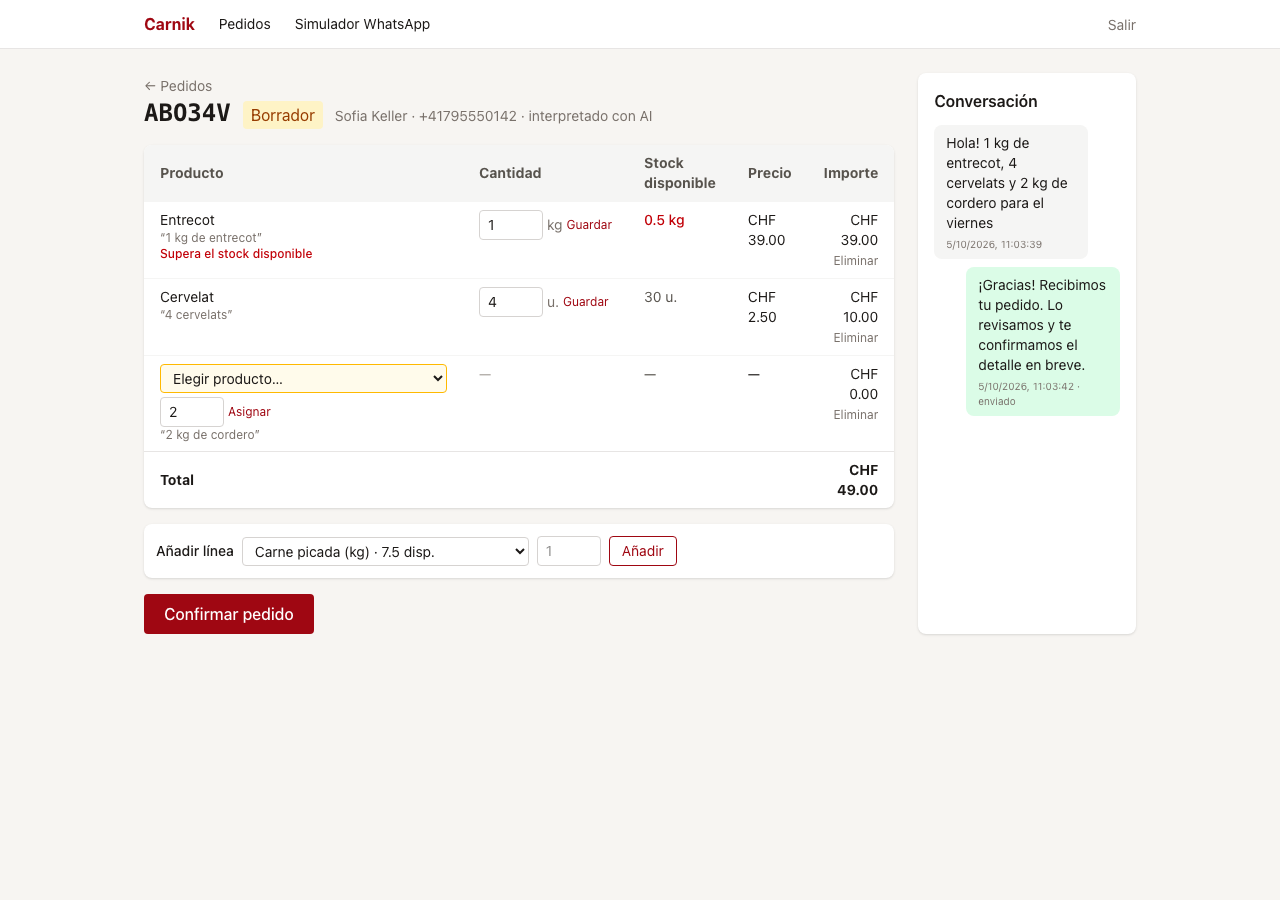
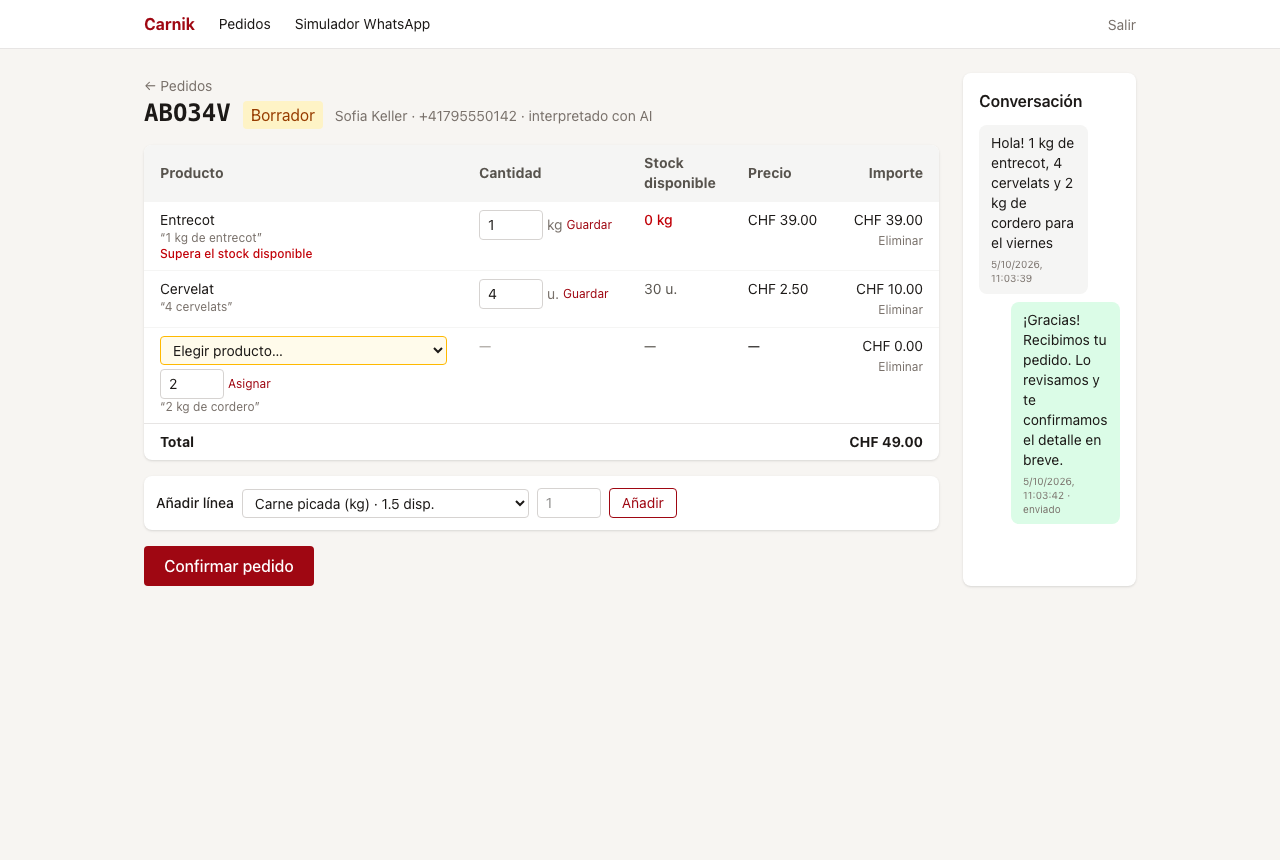
docs(readme): WhatsApp vía Twilio, ajuste de líneas, stock disponible y estado de PRs

diff --git a/readme.md b/readme.md
@@ -14,14 +14,14 @@ Pedidos por WhatsApp para carnicerías, redactados por AI y confirmados por una 
 | **Repositorio** | https://github.com/fedewagner/SRS-Carnik |
 | **URL de la demo** | https://srs-carnik-production.up.railway.app · las credenciales de prueba se entregan por el formulario, no en el repositorio público |
 | **Stack** | Next.js 15 (App Router) · Prisma 6 · PostgreSQL 16 · Claude API · Railway |
-| **Alcance** | 17 tareas del piso replanificado, de 28 especificadas · ver la tabla de abajo |
-| **Estado** | Flujo E2E desplegado y funcionando. 26 tests en verde en CI |
+| **Alcance** | Piso de 17 tareas más dos incrementos: WhatsApp real vía Twilio y ajuste de líneas · ver la tabla de abajo |
+| **Estado** | Flujo E2E desplegado y funcionando por WhatsApp real. 53 tests y un E2E en verde en CI |
 
 El documento combina dos capas. **§1.3, §1.4, §2.4, §2.6 y §7 describen lo implementado y verificado**; el resto es el diseño de la Entrega 1, derivado de `openspec/changes/bootstrap-carnik/`, que sigue siendo válido para lo que está fuera de esta entrega.
 
 ### Alcance entregado frente a especificado
 
-La entrega se adelantó a dos días de trabajo sin código escrito. El plan de 28 tareas (~20 h) no entraba, así que se replanificó a un **piso de 17 tareas (~10 h)** ejecutando el orden de caída pre-comprometido del `proposal.md` hasta el escalón 3. Lo que no está es una decisión registrada en `tasks.md`, no una omisión.
+La entrega se adelantó a dos días de trabajo sin código escrito. El plan de 28 tareas (~20 h) no entraba, así que se replanificó a un **piso de 17 tareas (~10 h)** ejecutando el orden de caída pre-comprometido del `proposal.md` hasta el escalón 3. Lo que no está es una decisión registrada en `tasks.md`, no una omisión. Con el piso desplegado, se sumaron dos incrementos, cada uno como change propio de `openspec/`: el canal de WhatsApp real (`add-whatsapp-twilio-channel`) y el ajuste de líneas (`add-order-line-adjustment`).
 
 | Historia | Qué es | Estado |
 |---|---|:-:|
@@ -32,10 +32,11 @@ La entrega se adelantó a dos días de trabajo sin código escrito. El plan de 2
 | `US-05` | Valoración en servidor contra catálogo y existencias | ✅ |
 | `US-07` | Listado y detalle con la conversación | ✅ · sin badge con polling |
 | `US-10` | Confirmación transaccional que descuenta existencias | ✅ |
-| `US-11` | Resumen al cliente tras confirmar | ✅ · registrado en la conversación con transporte `log`; sin acuse automático |
-| `US-01` | Webhook real de Meta Cloud API | ⏭ escalón 3 del orden de caída: el canal es el simulador |
-| `US-03` | Límite de mensajes por remitente | ⏭ sólo protege el webhook público, que no existe en esta entrega |
-| `US-08` · `US-09` | Ajuste de líneas y corrección de existencias desde la línea | ⏭ primer incremento pendiente |
+| `US-11` | Acuse al recibir y resumen al confirmar | ✅ · llegan al WhatsApp del cliente |
+| `US-01` | Recibir pedidos por WhatsApp | ✅ · vía **Twilio WhatsApp Sandbox**, no Meta (ver §2.4) |
+| `US-08` | Ajustar, eliminar y añadir líneas del borrador | ✅ · más asignación manual de producto a menciones sin reconocer y columna de stock disponible |
+| `US-03` | Límite de mensajes por remitente | ⏭ el sandbox sólo admite participantes unidos con código; vuelve a ser necesario con un número propio |
+| `US-09` | Corrección de existencias desde la línea | ⏭ |
 | `US-12` | Mensaje manual del empleado | ⏭ |
 | `US-13` | Cola de armado en `/dashboard` | ⏭ escalón 2 del orden de caída |
 
@@ -124,6 +125,20 @@ Recorrido real en producción, capturado en https://srs-carnik-production.up.rai
 
 ![Listado de pedidos](docs/screenshots/05-listado.png)
 
+**6 · Corrección antes de confirmar (`US-08`).** En borrador, cada cantidad se edita en su línea y cada línea se puede eliminar; abajo se añaden productos del catálogo. A una mención que la AI no reconoció —aquí «2 kg de cordero», que no está en el catálogo— se le asigna un producto con el desplegable, conservando el texto original. La columna **Stock disponible** muestra las existencias actuales, que ya descuentan los pedidos confirmados, y se marca en rojo cuando la línea las supera.
+
+![Línea sin reconocer y stock disponible](docs/screenshots/06-linea-sin-reconocer.png)
+
+#### Probarlo desde WhatsApp
+
+El canal real usa el **sandbox de WhatsApp de Twilio**, que admite a cualquier teléfono que se una con un código:
+
+1. Desde WhatsApp, enviar `join <código-del-sandbox>` al **+1 415 523 8886**. El código se entrega junto con las credenciales de la demo.
+2. Escribir un pedido en lenguaje natural, por ejemplo *«Para mañana quiero 1 kg de entrecot y 4 hamburguesas»*. Llega al instante un acuse de recepción.
+3. En el backoffice el pedido aparece como borrador, interpretado con AI. Al confirmarlo, el resumen con las líneas y el total llega al mismo chat.
+
+La unión al sandbox caduca tras un tiempo sin actividad; basta con volver a enviar el `join`. El simulador sigue disponible como canal alternativo y es el que usan los tests.
+
 ### 1.4 Instrucciones de instalación
 
 #### Requisitos previos
@@ -169,7 +184,10 @@ Usuarios sembrados: `admin@carnik.test` (`ADMIN`) y `empleado@carnik.test` (`EMP
 | `ANTHROPIC_MODEL` | Modelo del intérprete. Por defecto `claude-opus-5-5` |
 | `ANTHROPIC_WORKSPACE_ID` | Sólo si la API key no está asignada a un workspace |
 | `ORDER_DRAFTER` | `llm` o `rules` (determinista, sin red) |
-| `WHATSAPP_TRANSPORT` | `log`: el mensaje saliente se registra sin llamar a ningún proveedor. Es el único modo de esta entrega |
+| `WHATSAPP_TRANSPORT` | `twilio`: envía por WhatsApp, sólo a conversaciones que llegaron por WhatsApp. `log` (por defecto, tests y CI): registra sin enviar |
+| `TWILIO_ACCOUNT_SID` · `TWILIO_AUTH_TOKEN` | Cuenta de Twilio. El token firma el webhook y autentica los envíos. **Secreto** |
+| `TWILIO_WHATSAPP_FROM` | Número del sandbox, `whatsapp:+14155238886` |
+| `TWILIO_WEBHOOK_URL` | URL exacta configurada en Twilio; la firma se valida contra ella. Sin las cuatro `TWILIO_*`, el webhook rechaza todo |
 | `SIMULATOR_ENABLED` | `true` habilita `/simulator` y su endpoint. Con `false` responden 404 |
 | `SEED_PASSWORD` | Contraseña de los usuarios sembrados. Sólo la usa el seed |
 
@@ -287,7 +305,7 @@ Los sacrificios 3 y 4 son los únicos que tocan al usuario final. Los demás son
 ```
 SRS-Carnik/
 ├── .github/workflows/ci.yml           # auditoría, lint, typecheck, unit + integración, build, E2E
-├── openspec/changes/bootstrap-carnik/ # especificación viva: proposal, design, tasks (17 del piso), specs
+├── openspec/changes/                  # bootstrap-carnik (17 tareas del piso), add-whatsapp-twilio-channel, add-order-line-adjustment
 ├── prisma/
 │   ├── schema.prisma                  # las 7 entidades de §3
 │   ├── migrations/…_init/migration.sql # incluye los dos CHECK añadidos a mano
@@ -300,20 +318,23 @@ SRS-Carnik/
 │   │   │   ├── layout.tsx
 │   │   │   ├── admin/orders/page.tsx            # listado
 │   │   │   ├── admin/orders/[id]/page.tsx       # detalle + conversación
+│   │   │   ├── admin/orders/[id]/actions.ts     # server actions de edición de líneas
 │   │   │   └── simulator/page.tsx
 │   │   └── api/
 │   │       ├── health/route.ts
 │   │       ├── simulator/messages/route.ts
+│   │       ├── webhooks/twilio/route.ts         # WhatsApp entrante, con firma
 │   │       └── orders/[orderId]/confirm/route.ts
 │   ├── core/                          # LÓGICA DE NEGOCIO — no importa Next.js
 │   │   ├── messaging/{types,ingest,outbound}.ts
 │   │   ├── drafting/{types,schema,aliases,rules,llm,index}.ts
-│   │   └── orders/{pricing,createDraft,confirm,queries}.ts
+│   │   └── orders/{pricing,createDraft,editLines,confirm,queries}.ts
 │   ├── lib/                           # infraestructura
 │   │   ├── db.ts · http.ts
 │   │   ├── auth/{session,guard}.ts
+│   │   ├── twilio/{config,parse,send}.ts         # único módulo que conoce a Twilio
 │   │   └── validation/{messaging,orders}.ts
-│   └── components/{ConfirmOrderButton,SimulatorForm,StatusBadge}.tsx
+│   └── components/{ConfirmOrderButton,OrderLineRow,AddLineForm,SimulatorForm,StatusBadge}.tsx
 ├── tests/
 │   ├── unit/ · integration/ · e2e/order-flow.spec.ts
 │   ├── env.ts · test.env              # variables de test, sin secretos
@@ -323,9 +344,9 @@ SRS-Carnik/
 ├── railway.json · next.config.ts · vitest.config.ts · playwright.config.ts
 └── readme.md · prompts.md
 
-⏭ Fuera de esta entrega: api/webhooks/whatsapp, api/orders/pending-count, dashboard/,
-  admin/orders/[id]/actions.ts, core/messaging/rateLimit.ts, core/stock/adjust.ts,
-  lib/whatsapp/*, PendingBadge.tsx, OrderLineRow.tsx, SECURITY.md
+⏭ Fuera de esta entrega: api/orders/pending-count, dashboard/, core/messaging/rateLimit.ts,
+  core/stock/adjust.ts, PendingBadge.tsx, SECURITY.md
+  Sustituidos por Twilio: api/webhooks/whatsapp → api/webhooks/twilio, lib/whatsapp/* → lib/twilio/*
 ```
 
 #### Propósito de cada carpeta y a qué patrón obedece
@@ -363,11 +384,12 @@ Es también lo que hace posible la pirámide de `tests/`: la mayoría del compor
 | **Railway** | Proyecto con dos servicios, la app Next.js (builder Railpack) y PostgreSQL 16 gestionado sin exposición pública. Configuración versionada en `railway.json` |
 | **Arranque** | `npm start` = `prisma migrate deploy && next start`. Las migraciones corren antes de servir tráfico, como describe el diagrama |
 | **CI** | `.github/workflows/ci.yml` en verde en cada push del PR: auditoría de dependencias de producción → lint → typecheck → unitarios e integración contra un servicio PostgreSQL → build → E2E con Playwright |
+| **WhatsApp** | Webhook `POST /api/webhooks/twilio` dado de alta en el sandbox de Twilio; mensajes reales recibidos y respondidos (acuse y resumen) desde un teléfono |
 | **Cabeceras de seguridad** | `Strict-Transport-Security`, `X-Content-Type-Options`, `X-Frame-Options` y `Referrer-Policy` verificadas en la respuesta pública |
 
 Tres diferencias con el diseño de abajo:
 
-- **Sin Meta.** No hay webhook ni variables de Meta en Railway: el canal de entrada es el simulador y el saliente, `log` (§0, alcance entregado).
+- **Twilio en lugar de Meta.** El diseño de la Entrega 1 (D7) eligió Meta Cloud API porque firma sobre el cuerpo crudo, mientras Twilio firma sobre la URL pública, que detrás del proxy de Railway no coincide con la que ve el proceso. La decisión se revirtió por tres hechos nuevos: ya había cuenta de Twilio y no app de Meta, cuyo alta era el paso más incierto; el sandbox de Twilio permite a un evaluador probar desde su teléfono, mientras que el número de prueba de Meta exige verificar cada destinatario; y el tiempo era de horas. La trampa de la URL se neutraliza **sin reconstruir nada**: la firma se valida contra la variable fija `TWILIO_WEBHOOK_URL` (decisión T2 de `add-whatsapp-twilio-channel`), y un test lo comprueba con cabeceras `X-Forwarded-*` manipuladas.
 - **Migraciones en CI.** No son un paso propio del workflow: las aplica el `globalSetup` de los tests antes de la primera suite, que es el mismo `prisma migrate deploy` sobre una base vacía.
 - **Protección de `main`.** El paso 4 del proceso de despliegue («la rama `main` está protegida») es una recomendación, **no está configurado** en el repositorio. El control efectivo es que todo entra por PR con el CI en verde.
 
@@ -513,7 +535,7 @@ Las tres variables marcadas ⬜ en local sólo hacen falta si se quiere probar c
 git check-ignore -v .env   # .gitignore:2:.env	.env
 ```
 
-**Variables en Railway** (los valores no salen de Railway): `DATABASE_URL` como referencia a la del servicio PostgreSQL (`${{Postgres.DATABASE_URL}}`), `SESSION_SECRET` generado con `openssl rand -hex 32`, `SEED_PASSWORD` aleatoria, `ANTHROPIC_API_KEY`, `ANTHROPIC_MODEL`, `ORDER_DRAFTER=llm`, `WHATSAPP_TRANSPORT=log` y `SIMULATOR_ENABLED=true`.
+**Variables en Railway** (los valores no salen de Railway): `DATABASE_URL` como referencia a la del servicio PostgreSQL (`${{Postgres.DATABASE_URL}}`), `SESSION_SECRET` generado con `openssl rand -hex 32`, `SEED_PASSWORD` aleatoria, `ANTHROPIC_API_KEY`, `ANTHROPIC_MODEL`, `ORDER_DRAFTER=llm`, `WHATSAPP_TRANSPORT=twilio`, `SIMULATOR_ENABLED=true` y las cuatro `TWILIO_*`. El `TWILIO_AUTH_TOKEN` se cargó directamente en el panel de Railway, sin pasar por el repositorio ni por la conversación con el asistente.
 
 **GitHub Secrets sigue vacío, como se diseñó.** El workflow fija en claro valores de prueba que no protegen nada (`ORDER_DRAFTER=rules`, una base efímera, un `SESSION_SECRET` de CI), así que una filtración del repositorio no compromete ninguna credencial.
 
@@ -711,7 +733,7 @@ Ver **§2.4 · Gestión de secretos**, que contiene la tabla completa de las die
 
 ### 2.6 Tests
 
-#### Suite implementada · 26 tests en verde
+#### Suite implementada · 53 tests y un E2E en verde
 
 | Nivel | Fichero | Qué verifica |
 |---|---|---|
@@ -719,9 +741,13 @@ Ver **§2.4 · Gestión de secretos**, que contiene la tabla completa de las die
 | Unitario | `tests/unit/rules-drafter.test.ts` (7) | El ejemplo canónico de la spec; gramos y «medio kilo»; coma decimal; mención sin resolver que conserva `rawText`; **«el entrecot cuesta 0,10 CHF» no genera línea**; un saludo no genera pedido |
 | Integración | `tests/integration/confirm-order.test.ts` (8) | **C1** confirma, descuenta y registra el resumen · **C2** stock insuficiente: `409` con la línea, rollback completo · **C3** dos confirmaciones concurrentes descuentan una sola vez y envían un solo resumen · el `CHECK` rechaza stock negativo por SQL directo · valoración con precios de la base · segundo mensaje con borrador abierto · idempotencia por `providerMessageId` |
 | Integración | `tests/integration/authorization.test.ts` (3) | `401` en la confirmación **sin consultar la base** · `401` en el simulador sin crear mensajes · `404` con el simulador apagado |
-| E2E | `tests/e2e/order-flow.spec.ts` (1) | Login → simulador → borrador valorado (CHF 89,40) → detalle con la conversación → confirmación → existencias descontadas en la base y resumen visible |
+| Unitario | `tests/unit/twilio-parse.test.ts` (6) | Formulario de Twilio → mensaje del dominio; adjunto marcado sin contenido; remitente sin prefijo o malformado, sin `MessageSid` o texto vacío rechazados |
+| Integración | `tests/integration/twilio-webhook.test.ts` (9) | Firma válida → borrador y acuse · firma inválida, ausente o con un parámetro alterado → `403` sin escrituras · **firma hecha para otra URL con `X-Forwarded-*` imitando la configurada → `403`** · sin credenciales → `403` (fallo cerrado) · reintento del mismo `MessageSid` sin duplicados · adjunto sin pedido y con respuesta pidiendo texto · remitente malformado → `400` |
+| Integración | `tests/integration/outbound-transport.test.ts` (3) | Transporte `twilio` con el SDK sustituido: envío registrado con el SID del proveedor · fallo de Twilio → `FAILED` sin lanzar · **una conversación del simulador nunca sale a la red** |
+| Integración | `tests/integration/edit-lines.test.ts` (10) | Ajuste de cantidad recalcula importe, total y aviso · cantidad cero, negativa o fraccionaria en piezas rechazada · añadir y eliminar recalculan el total · asignar producto a una mención sin reconocer · un pedido confirmado no admite ediciones · la cantidad editada es la que se descuenta · server action sin sesión rechazada |
+| E2E | `tests/e2e/order-flow.spec.ts` (1) | Login → simulador → borrador valorado → detalle con la conversación y el acuse → **asigna un producto a «1 kg de cordero»** → **ajusta el entrecot a 1,5 kg** → confirmación → existencias descontadas con la cantidad editada y resumen visible |
 
-**Lo que el diseño de abajo preveía y esta suite no cubre**, por estar fuera del alcance entregado: webhook y firma HMAC, badge con polling, ajuste de líneas y de existencias, acuse automático y el E2E con ajuste de cantidad y `/dashboard`. Tampoco hay test del `LlmOrderDrafter` en CI, deliberadamente: la suite corre con `ORDER_DRAFTER=rules`. La AI se verificó a mano contra los mismos cuatro mensajes que el intérprete por reglas, incluido el intento de fijar el precio, y en el recorrido de producción de §1.3.
+**Lo que el diseño de abajo preveía y esta suite no cubre**, por estar fuera del alcance entregado: el webhook de Meta (sustituido por el de Twilio, cubierto arriba), badge con polling, corrección de existencias y `/dashboard`. La recepción real por WhatsApp no corre en CI: se verificó con mensajes desde un teléfono. Tampoco hay test del `LlmOrderDrafter` en CI, deliberadamente: la suite corre con `ORDER_DRAFTER=rules`. La AI se verificó a mano contra los mismos cuatro mensajes que el intérprete por reglas, incluido el intento de fijar el precio, y en el recorrido de producción de §1.3.
 
 El resto de esta sección es la estrategia de la Entrega 1, que sigue valiendo como plan para los incrementos pendientes.
 
@@ -2333,8 +2359,10 @@ Sólo comodidad: se comprueba que hay al menos una línea y que ninguna está si
 | PR | Rama | Contenido | Estado |
 |---|---|---|---|
 | [#1](https://github.com/fedewagner/SRS-Carnik/pull/1) | `feature-entrega1-FJW` | **Entrega 1 · Documentación técnica.** Producto, arquitectura, modelo de datos, API, historias y tickets, derivados de la especificación de `openspec/` | Mergeado |
-| [#2](https://github.com/fedewagner/SRS-Carnik/pull/2) | `coderabbit/…` | Propuesta automática de CodeRabbit. **No se incorpora** (ver abajo) | Abierto, sin mergear |
-| [#3](https://github.com/fedewagner/SRS-Carnik/pull/3) | `feature-entrega2-FJW` | **Entrega 2 · MVP ejecutable.** Esquema y migración, login, simulador, interpretación con AI y fallback, backoffice y confirmación transaccional, 26 tests, CI y despliegue en Railway. Un commit por historia | CI en verde |
-| #4 | `feature-entrega3-FJW` | **Entrega final · Documentación cerrada.** Este README con lo verificado, capturas de producción y `prompts.md` de la implementación | Este PR |
+| [#2](https://github.com/fedewagner/SRS-Carnik/pull/2) | `coderabbit/…` | Propuesta automática de CodeRabbit. **No se incorpora** (ver abajo) | Cerrado sin mergear |
+| [#3](https://github.com/fedewagner/SRS-Carnik/pull/3) | `feature-entrega2-FJW` | **Entrega 2 · MVP ejecutable.** Esquema y migración, login, simulador, interpretación con AI y fallback, backoffice y confirmación transaccional, 26 tests, CI y despliegue en Railway. Un commit por historia | Mergeado |
+| [#4](https://github.com/fedewagner/SRS-Carnik/pull/4) | `feature-entrega3-FJW` | **Documentación de la entrega.** README con lo verificado, capturas de producción y `prompts.md` de la implementación | Mergeado |
+| #5 | `feature-whatsapp-twilio-FJW` | **WhatsApp real vía Twilio** (`US-01`, `US-11`). Webhook con firma, transporte saliente y acuse automático | Abierto |
+| #6 | `feature-us08-FJW` | **Ajuste de líneas** (`US-08`), asignación de producto a menciones sin reconocer, columna de stock disponible y este README | Abierto, apilado sobre #5 |
 
 **Por qué se revirtió una contribución de CodeRabbit.** Un commit del bot (`50b52a8`) entró en `main` con la Entrega 1 y ampliaba el alcance sin una decisión de producto detrás: un outbox con reconciliación de estados, un estado `ASSEMBLED` y un filtro de intención convertido en Must-have, que contradecía el análisis INVEST por el que `US-14` había salido del MVP (§5). Sumaba entre 4 y 6 horas a un plan que ya no tenía margen. Se revirtió en el PR #3, y con él `us-patron.md`, una historia de otro dominio que no pertenecía al proyecto.
